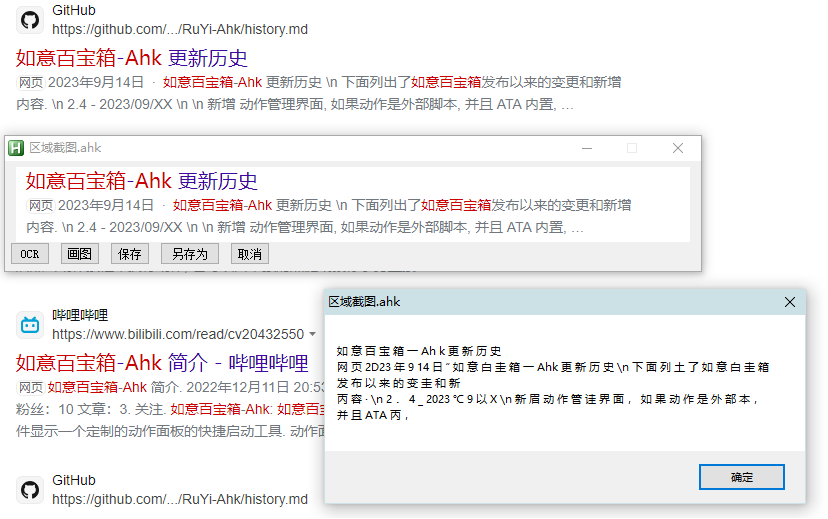
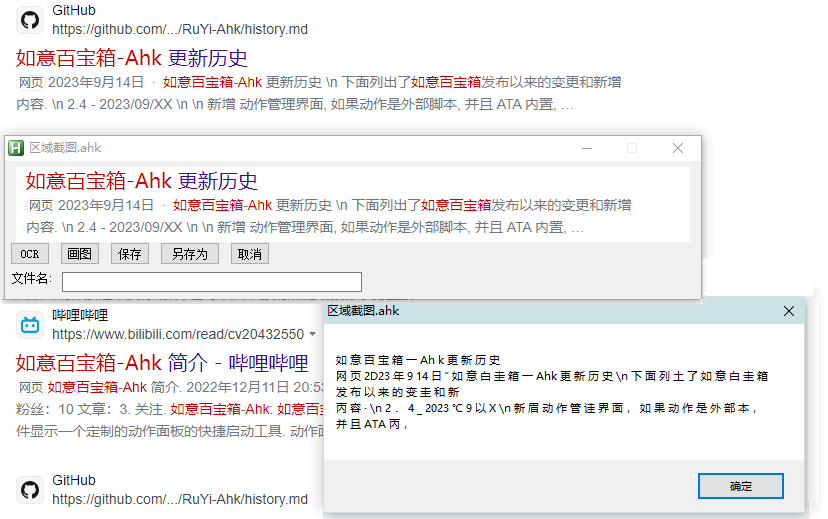
如意文档更新到 2.5.0.2

Changed region(s): [[0.0, 0.5241, 0.9964, 0.8324], [0.3925, 0.894, 0.9964, 1.0]]

diff --git a/RuYi-Ahk/index.md b/RuYi-Ahk/index.md
@@ -54,17 +54,18 @@ description: 如意百宝箱-Ahk 简介
 每个动作代表一个预设好的命令, 面板上的按钮对应一个动作, 点击面板上的按钮就会执行相应的动作. 动作设置保存在[\[1.1+\]](./history.md#1.1) "配置文件/内置动作.ini" 和 "配置文件/自定义动作.ini" 文件中.  
   -  [完整的内置动作列表](ActionList.md)  
   
-  - 动作有以下 10 种类别: 运行(Run), 面板(Gui), 菜单(Menu), 发送按键(Key), 内置命令和函数(Cando 和 CanFunc), 使用指定程序打开选中文件(OpenWith), 设置剪贴板(SetClip), 对话框(Msgbox), 动作组合(CombActions).  
-     - .1 运行: 运行程序, 打开文件(文件夹, 网址). 如打开C盘写为 "Run&#124;C:", 打开记事本写为 "Run&#124;notepad.exe". 要运行的外部 Ahk 脚本统一放在 "外部脚本" 目录.  
+  - 动作有以下 11 种类别: 运行(Run), 面板(Gui), 菜单(Menu), 发送按键(Key), 内置命令和函数(Cando 和 CanFunc), 使用指定程序打开选中文件(OpenWith), 设置剪贴板(SetClip), 对话框(Msgbox), 动作组合(CombActions), SendMsgToATA.  
+     - .1 运行: 运行程序, 打开文件(文件夹, 网址). 如打开 C 盘写为 "Run&#124;C:", 打开记事本写为 "Run&#124;notepad.exe". 要运行的外部 Ahk 脚本统一放在 "外部脚本" 目录.  
      - .2 面板: 在主面板上点击按钮后, 显示一个子面板. 动作写作 "Gui&#124;常用工具"  
      - .3 菜单: 在主面板上点击按钮后, 显示一个子面板中按钮的菜单. 动作写作 "Menu&#124;常用工具"  
      - .4 发送按键: 在当前窗口发送按键. 例: Keys&#124;^w  表示发送 Ctrl+w  
-     - .5+6 内置命令和函数: 执行内置的 ahk 脚本标签和函数. 例: canfunc&#124;CF_FileRemoveBlankDir&#124;%Windy_CurWin_FolderPath% 其中 CF_FileRemoveBlankDir 为内置函数名称(删除指定文件夹下的空目录), %Windy_CurWin_FolderPath% 为函数的参数变量(资源管理器的当前窗口的目录)  
+     - .5+6 内置[命令和函数](./func.md): 执行内置的 ahk 脚本标签和函数. 例: canfunc&#124;CF_FileRemoveBlankDir&#124;%Windy_CurWin_FolderPath% 其中 CF_FileRemoveBlankDir 为内置函数名称(删除指定文件夹下的空目录), %Windy_CurWin_FolderPath% 为函数的参数[变量](./var.md)(资源管理器的当前窗口的目录)  
      - .7 使用指定程序打开选中文件. 例: openwith&#124;Notepad.exe 使用记事本打开选中的文件  
-     - .8 设置剪贴板: 将剪贴板设为某个变量的值. 例: setclip&#124;%CandySel% 将选中文本或文件(的路径) 放入剪贴板  
-     - .9 对话框: 测试用, 显示变量的值.  
+     - .8 设置剪贴板: 将剪贴板设为某个[变量](./var.md)的值. 例: setclip&#124;%CandySel% 将选中文本或文件(的路径) 放入剪贴板  
+     - .9 对话框: 测试用, 显示[变量](./var.md)的值.  
      - .10 动作组合[\[2.4+\]](./history.md#2.4): 依次执行指定的多个动作  
-     
+     - .11 SendMsgToATA: 发送消息给 AnyToAhk, 并执行相应动作. 第一个参数为动作编号(可省略), 其他参数支持变量.  
+
   - 动作的管理由托盘菜单的 "[动作管理](/Actions/1192.md)" 和面板按钮编辑界面的 "转到动作编辑" 按钮来启动.   
     动作管理界面可以编辑动作, 例如修改动作的图标, 名称, 针对的对象, 热键, 鼠标手势, 说明文本, 动作的命令. 也可以在这里创建新的动作(自定义动作编号 > 5000).  
         ![Image text](../img/动作管理.jpg)
@@ -82,7 +83,7 @@ description: 如意百宝箱-Ahk 简介
      -  .11 [\[2.3+\]](./history.md#2.3)设置动作到托盘按钮, 通过点击托盘按钮来打开  
      
 #### <span id="Script">外部脚本</span>
-  - 许多动作是由外部的 ahk 脚本来完成的, 它们统一放在 "外部脚本" 目录. 现在内置的外部动作脚本有 210 个.  
+  - 许多动作是由外部的 ahk 脚本来完成的, 它们统一放在 "外部脚本" 目录. 外部脚本在动作中最多支持 3 个命令行参数, 并且支持如意内置的[变量](./var.md). 现在内置的外部动作脚本有 214 个.  
     下面列出了内置的外部脚本动作, 第二列为外部动作脚本是否集成在 AnyToAhk.exe(ATA) 中.  
 
 | 动作编号 | ATA内置 | 按钮名称 | 动作对象 | 描述 | 脚本名称 |
@@ -331,3 +332,7 @@ description: 如意百宝箱-Ahk 简介
 |1542|否|窗口大小|任意窗口|拖动右键,改变窗口的大小|任意位置移动窗口.ahk|
 |1543|否|[批量文件](/Actions/1543.md)|选中文件夹|在选中文件夹下批量创建文件(文件夹), 一行一个|文件夹_批量创建文件.ahk|
 |1544|否|[验证身份证](/Actions/1544.md)|选中文本|选中身份证号码, 验证是否有效|验证身份证号码.ahk|
+|1548|否|文件合并|选中文件夹|列出选中文件夹中文本文件, 将选中文件合并|多文件合并.ahk|
+|1549|否|搜狗输入法|任意窗口|激活搜狗拼音输入法|激活指定输入法.ahk|
+|1550|否|显示剪贴板|剪贴板|显示剪贴板当前的内容|显示剪贴板内容.ahk|
+

diff --git a/RuYi-Ahk/var.md b/RuYi-Ahk/var.md
@@ -1,0 +1,38 @@
+---
+layout: default
+title: 如意百宝箱-Ahk
+description: 如意百宝箱-Ahk 内置变量
+---
+
+[返回主页](index.md)
+
+# [](#header-2) 内置变量
+
+能传递给外部脚本的变量参数列表, 例如 \[脚本.ahk "文本参数1" "%变量%"\], 变量需要使用百分号括起来, 参数间使用空格来分隔. 传递给脚本的参数的最大数目为 3 个.  
+
+| 序号 | 变量名称 | 说明 | 
+| ----------- | ----------- | ----------- | 
+|1|Ahk 内置的变量|Ahk 中的内置变量都可以使用, 例如 %clipboard%, %A_ScriptDir%|
+|2|如意配置其他程序内置的变量|如一.ini 文件其他程序条目下的变量都可以使用, 例如 %AutoHotkeyU32%|
+|3|B_Autohotkey|A_ScriptDir "\引用程序\\" (A_PtrSize = 8 ? "AutoHotkeyU64.exe" : "AutoHotkeyU32.exe")|
+|4|B_Autohotkey2|A_ScriptDir "\引用程序\2.0\\" (A_PtrSize = 8 ? "AutoHotkey64.exe" : "AutoHotkey32.exe")|
+|5|Windy_CurWin_id|当前鼠标下的窗口的句柄|
+|6|Windy_CurWin_Class|当前鼠标下的窗口的类|
+|7|Windy_CurWin_ClassNN|当前鼠标光标下控件的类名|
+|8|Windy_CurWin_FolderPath|鼠标下窗口为资源管理器时, 窗口打开的目录|
+|9|Windy_CurWin_Fullpath|当前鼠标下的窗口进程文件的路径|
+|10|Windy_CurWin_ParentPath|当前鼠标下的窗口进程文件所在目录|
+|11|Windy_CurWin_Pid|当前鼠标下的窗口进程的 Pid|
+|12|Windy_CurWin_ProcName|当前鼠标下的窗口进程文件的名称|
+|13|Windy_CurWin_ProcNameNoExt|当前鼠标下的窗口进程文件的名称(不带扩展名)|
+|14|Windy_CurWin_Title|当前鼠标下的窗口的标题|
+|15|CandySel|当前选中文本内容或选中文件的路径, 支持多文件, 无选中内容时变量为空|
+|16|CandySel_Drive|当前选中文件的所在盘符, 如 C:|
+|17|CandySel_Ext|当前选中文件的扩展名|
+|18|CandySel_FileName|当前选中文件的名称|
+|19|CandySel_FileNameNoExt|当前选中文件的不带扩展名的名称|
+|20|CandySel_FirstFile|当前选中的第一个文件的路径|
+|21|CandySel_ParentName|当前选中文件的所在目录的名称|
+|22|CandySel_ParentPath|当前选中文件的所在目录|
+|23|CandySel_Rich|当前选中的内容|
+

diff --git a/RuYi-Ahk/history.md b/RuYi-Ahk/history.md
@@ -10,11 +10,12 @@ description: 如意百宝箱-Ahk 更新历史
 
 下面列出了如意百宝箱发布以来的变更和新增内容.  
 
-### <span id="2.5">2.5 - 2024/01/XX</span>
+### <span id="2.5">2.5 - 2024/02/XX</span>
 1. 测试 当修改保存内置动作时, 使用 内置动作自定义.ini 文件保存修改内容(即更新主程序时不会覆盖修改的内置动作配置)  
 2. 新增 内部标签动作  
 .01 将选中文件添加为自定义动作  
 .02 将选中文件的快捷方式发送到 Lnk 文件夹  
+.03 将选中文本发送到 #32770 对话框并发送指定按键 函数调用原型 SendTo32770(CandySel, Key) 例如动作 1547: canfunc|SendTo32770|%CandySel%|{Enter}  
 3. 新增 外部脚本动作  
 .01 [英文标点转中文.ahk](/Actions/1534.md)  
 .02 [中文标点转英文.ahk](/Actions/1533.md)  
@@ -24,9 +25,19 @@ description: 如意百宝箱-Ahk 更新历史
 .06 任意位置移动窗口.ahk  
 .07 [文件夹_批量创建文件.ahk](/Actions/1543.md)  
 .08 [验证身份证号码.ahk](/Actions/1544.md)  
+.09 显示剪贴板内容.ahk  
+.10 多文件合并.ahk(未完成)  
+.11 激活指定输入法.ahk(暂时只预设了搜狗拼音)  
 4. 修改 外部脚本动作  
 .01 [查找重复文件.ahk](/Actions/1229.md)  文件列表按 Md5 值排序, 新增 1 列以便能清晰显示分组  
-.02 [文件夹_文件列表(整合版).ahk](/Actions/1297.md) 增加更多选项
+.02 [文件夹_文件列表(整合版).ahk](/Actions/1297.md) 增加更多选项  
+.03 区域截图.ahk  支持输入文件名后保存  
+.04 剪贴板保存为文件到当前文件夹.ahk  未指定文件目录时, 默认保存到桌面  
+.05 当前用户回收站中的文件信息.ahk 修改 SID 的获取方式  
+.06 文本文件中查找字符.ahk 编辑文件按钮支持跳转到关键字所在行  
+.07 管理文本文件编码.ahk  修复没有指定正确的输出编码的问题  
+.08 文本处理.ahk  新增获取单个多音字的拼音的功能  
+.09  
 5. 修复 Bug
 
 ### <span id="2.4">2.4 - 2023/11/01</span>

diff --git a/RuYi-Ahk/ActionList.md b/RuYi-Ahk/ActionList.md
@@ -556,6 +556,13 @@ description: 如意百宝箱-Ahk 内置动作列表
 |1543|e8f4|[批量文件](/Actions/1543.md)|选中文件夹|在选中文件夹下批量创建文件(文件夹), 一行一个|run&#124;"%B_Autohotkey%" "%A_ScriptDir%\外部脚本\文件处理\文件夹处理\文件夹_批量创建文件.ahk" "%CandySel%" "X"|
 |1544|e7b3|[验证身份证](/Actions/1544.md)|选中文本|选中身份证号码, 验证是否有效|run&#124;"%B_Autohotkey%" "%A_ScriptDir%\外部脚本\文本处理\验证身份证号码.ahk" "%CandySel%"|
 |1545|e12b|密码管理|Chrome|Chrome 浏览器密码管理器|run&#124;"%B_Autohotkey%" "%A_ScriptDir%\外部脚本\窗口处理\Chrome地址栏打开.ahk" "chrome://password-manager/passwords"|
+|1546|e12b|360密码|360浏览器|打开360浏览器密码管理页面|run&#124;%360se% "se://login-manager/"|
+|1547|f716|发送到对话框|选中文本|将选中文本发送到 #32770 对话框窗口|canfunc&#124;SendTo32770&#124;%CandySel%&#124;{Enter}|
+|1548|f156|文件合并|选中文件夹|列出选中文件夹中文本文件, 将选中文件合并|run&#124;"%B_Autohotkey%" "%A_ScriptDir%\外部脚本\文件处理\文件夹处理\多文件合并.ahk" "%CandySel%"|
+|1549|f1ad|搜狗输入法|任意窗口|激活搜狗拼音输入法|run&#124;"%B_Autohotkey%" "%A_ScriptDir%\外部脚本\系统设置\激活指定输入法.ahk" "搜狗拼音输入法" %Windy_CurWin_id%|
+|1550|E77F|显示剪贴板|剪贴板|显示剪贴板当前的内容|run&#124;"%B_Autohotkey%" "%A_ScriptDir%\外部脚本\工具类\显示剪贴板内容.ahk"|
+|1551|f408|设置权限EO|选中文件|设置选中文件(夹)的权限|run&#124;cmd.exe /c takeown /f "%candysel%" && icacls "%candysel%" /grant EveryOne:F|
+|1552|e8c1|语言设置|无条件|打开系统语言设置(Win7+)@控制面板|run&#124;rundll32.exe shell32.dll`,Control_RunDLL input.dll|
 
 
 

diff --git a/RuYi-Ahk/Actions/1530.md b/RuYi-Ahk/Actions/1530.md
@@ -20,16 +20,17 @@ description: 如意百宝箱-Ahk 动作介绍
 **动作截图**:  
   ![区域截图](img1/1530.png)  
 **动作内容**: run|"%B_Autohotkey%" "%A_ScriptDir%\外部脚本\工具类\区域截图.ahk"  
-执行外部脚本文件 "区域截图.ahk", ATA 内置动作  
+执行外部脚本文件 "区域截图.ahk"  
 
 **代码或详细解释**:  
 拖动鼠标区域截图, 截图后弹出一个窗口进行以下操作:
-1. ocr 使用系统自带的 OCR 识别截取的图片, 识别准确率聊胜于无  
+1. ocr 使用系统(Win10+) 自带的 OCR 识别截取的图片, 识别准确率聊胜于无  
 2. 画图, 使用系统画图程序简单编辑截图  
 3. 保存自动保存到 \截图目录\区域截图_%当前时间%.png, 如 区域截图_20231031212625.png  
 4. 另存为  
 
 **相关动作**:  
+[1171 截取窗口](1171.md), [1172 截取屏幕](1172.md), [1360 截取屏幕](1360.md), [1503 截取窗口](1503.md), [1521 截取屏幕](1521.md)
 
 **更新历史**:  
 1. 2.4 中添加该动作

diff --git a/RuYi-Ahk/func.md b/RuYi-Ahk/func.md
@@ -1,0 +1,20 @@
+---
+layout: default
+title: 如意百宝箱-Ahk
+description: 如意百宝箱-Ahk 内置动作
+---
+
+[返回主页](index.md)
+
+# [](#header-2) 内置动作
+
+如意中内置的动作, 包括标签和函数  
+
+| 序号 | 动作 | 函数原型 | 说明 | 
+| ----------- | ----------- | ----------- | ----------- | 
+|1|CF_AlwaysOnTop|CF_AlwaysOnTop(WinId)|传入窗口句柄, 使窗口置顶|
+|2|CF_CloseScreen|CF_CloseScreen()|关闭显示器, 使其黑屏|
+|3|CF_FileDelete|CF_FileDelete(sfile)|传入文件路径, 删除该文件, FileDelete 命令函数化|
+|4|CF_FileGetShortcut|CF_FileGetShortcut(LinkFile, OutValue := 1, clip := 1)|FileGetShortcut 命令函数化, OutValue 为要得到值的序号(1-7)|
+
+

diff --git a/RuYi-Ahk/Actions/1171.md b/RuYi-Ahk/Actions/1171.md
@@ -29,4 +29,4 @@ description: 如意百宝箱-Ahk 动作介绍
 截图图片自动保存的默认路径: \截图目录\截取屏幕_%当前时间%.png 或 \截图目录\截取窗口_%当前时间%.png 如, \截图目录\截取屏幕_20231005170118.png  
 
 **相关动作**:  
-[1172 截取屏幕](1172.md), [1360 截取屏幕](1360.md), [1503 截取窗口](1503.md), [1521 截取屏幕](1521.md)
+[1172 截取屏幕](1172.md), [1360 截取屏幕](1360.md), [1503 截取窗口](1503.md), [1521 截取屏幕](1521.md), [1530 区域截图](1530.md)

diff --git a/RuYi-Ahk/Actions/1172.md b/RuYi-Ahk/Actions/1172.md
@@ -29,4 +29,4 @@ description: 如意百宝箱-Ahk 动作介绍
 截图图片自动保存的默认路径: \截图目录\截取屏幕_%当前时间%.png 或 \截图目录\截取窗口_%当前时间%.png 如, \截图目录\截取屏幕_20231005170118.png  
 
 **相关动作**:  
-[1171 截取窗口](1171.md), [1360 截取屏幕](1360.md), [1503 截取窗口](1503.md), [1521 截取屏幕](1521.md)
+[1171 截取窗口](1171.md), [1360 截取屏幕](1360.md), [1503 截取窗口](1503.md), [1521 截取屏幕](1521.md), [1530 区域截图](1530.md)

diff --git a/RuYi-Ahk/Actions/1360.md b/RuYi-Ahk/Actions/1360.md
@@ -28,4 +28,4 @@ description: 如意百宝箱-Ahk 动作介绍
 截图图片自动保存的默认路径: \截图目录\截取屏幕_%当前时间%.png 或 \截图目录\截取窗口_%当前时间%.png 如, \截图目录\截取屏幕_20231005170118.png  
 
 **相关动作**:  
-[1171 截取窗口](1171.md), [1172 截取屏幕](1172.md), [1503 截取窗口](1503.md), [1521 截取屏幕](1521.md)
+[1171 截取窗口](1171.md), [1172 截取屏幕](1172.md), [1503 截取窗口](1503.md), [1521 截取屏幕](1521.md), [1530 区域截图](1530.md)

diff --git a/RuYi-Ahk/Actions/1471.md b/RuYi-Ahk/Actions/1471.md
@@ -23,7 +23,7 @@ description: 如意百宝箱-Ahk 动作介绍
 
 **代码及详细解释**:  
 ATA 中内置 [VirtualDesktopAccessor.dll](https://github.com/Ciantic/VirtualDesktopAccessor)  
-脚本会自动新建虚拟桌面, 执行动作后, 跳转到虚拟桌面 1(/2/3)  
+脚本会自动新建虚拟桌面(Win10+), 执行动作后, 跳转到虚拟桌面 1(/2/3)  
 
 ```Autohotkey
 1471:

diff --git a/RuYi-Ahk/Actions/1453.md b/RuYi-Ahk/Actions/1453.md
@@ -23,7 +23,7 @@ description: 如意百宝箱-Ahk 动作介绍
 
 **代码及详细解释**:  
 ATA 中内置 [VD.ahk](https://github.com/FuPeiJiang/VD.ahk)  
-VD.ahk 会自动新建 3 个虚拟桌面, 执行动作后, 跳转到虚拟桌面 1(/2/3)  
+VD.ahk 会自动新建 3 个虚拟桌面(Win10+), 执行动作后, 跳转到虚拟桌面 1(/2/3)  
 
 ```Autohotkey
 1453:

diff --git a/RuYi-Ahk/Actions/1503.md b/RuYi-Ahk/Actions/1503.md
@@ -46,4 +46,4 @@ return
 ```
 
 **相关动作**:  
-[1521 截取屏幕](1521.md), [1171 截取窗口](1171.md), [1172 截取屏幕](1172.md), [1360 截取屏幕](1360.md)
+[1171 截取窗口](1171.md), [1172 截取屏幕](1172.md), [1360 截取屏幕](1360.md), [1521 截取屏幕](1521.md), [1530 区域截图](1530.md)
